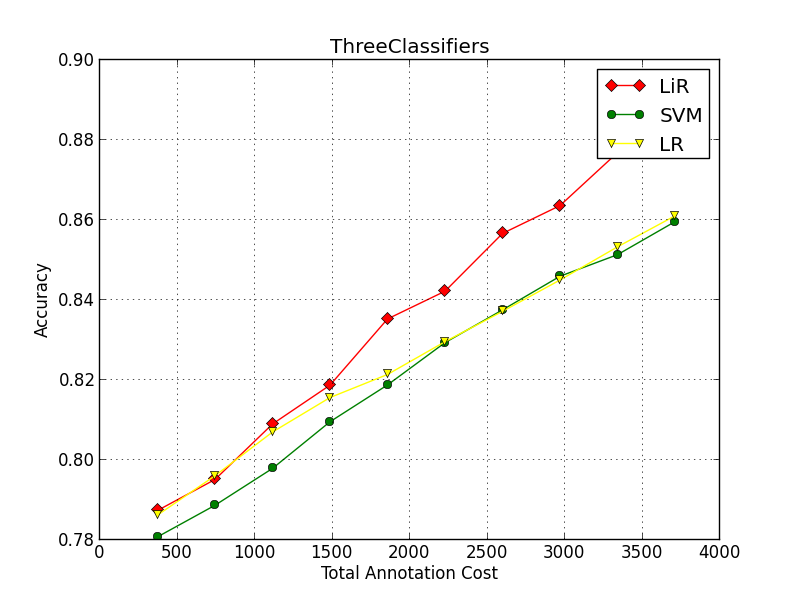
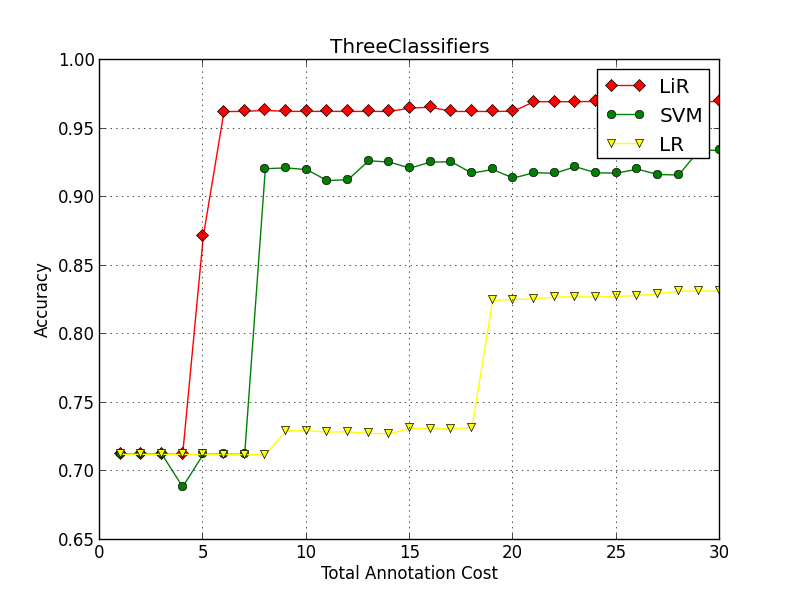
Fix bugs in Evaluator...

diff --git a/src/edu/cmu/al/experiment/Evaluator.java b/src/edu/cmu/al/experiment/Evaluator.java
@@ -20,8 +20,9 @@ public class Evaluator implements EvaluatorInterface {
     getTrueNeg();
     getFalsePos();
     getFalseNeg();
-    // System.out.println(TRUE_POS + "\t" + TRUE_NEG + "\t" + FALSE_POS + "\t" + FALSE_NEG);
-
+    
+    System.out.println(TRUE_POS + "\t" + TRUE_NEG + "\t" + FALSE_POS + "\t" + FALSE_NEG + "\t"
+            + (TRUE_POS + TRUE_NEG + FALSE_POS + FALSE_NEG));
   }
 
   @Override
@@ -47,35 +48,50 @@ public class Evaluator implements EvaluatorInterface {
 
   public void getTruePos() {
 
-    String sql = "select count(*) from " + Configuration.getReviewTable() + " R,"
-            + Configuration.getPredictTable() + " P "
-            + "where R.product_id = P.product_id and P.predict_result = 1 and R.review_score >= "
-            + ScoreDefine.posSocre + " and P.islabeled = 0";
+    String sql = "select count(P.product_id) from "
+            + Configuration.getFeatureTable()
+            + " F,"
+            + Configuration.getPredictTable()
+            + " P where F.product_id = P.product_id and P.islabeled = 0 and P.predict_result = 1 and F.f2 >= 3";
+
     TRUE_POS = SqlManipulation.queryInt(sql);
+    // System.out.println(sql);
   }
 
   public void getTrueNeg() {
-    String sql = "select count(*) from " + Configuration.getReviewTable() + " R,"
-            + Configuration.getPredictTable() + " P "
-            + "where R.product_id = P.product_id and P.predict_result = 0 and R.review_score < "
-            + ScoreDefine.posSocre + " and P.islabeled = 0";
+
+    String sql = "select count(P.product_id) from "
+            + Configuration.getFeatureTable()
+            + " F,"
+            + Configuration.getPredictTable()
+            + " P where F.product_id = P.product_id and P.islabeled = 0 and P.predict_result = 0 and F.f2 < 3";
+
     TRUE_NEG = SqlManipulation.queryInt(sql);
+    // System.out.println(sql);
   }
 
   public void getFalsePos() {
-    String sql = "select count(*) from " + Configuration.getReviewTable() + " R,"
-            + Configuration.getPredictTable() + " P "
-            + "where R.product_id = P.product_id and P.predict_result = 1 and R.review_score < "
-            + ScoreDefine.posSocre + " and P.islabeled = 0";
+
+    String sql = "select count(P.product_id) from "
+            + Configuration.getFeatureTable()
+            + " F,"
+            + Configuration.getPredictTable()
+            + " P where F.product_id = P.product_id and P.islabeled = 0 and P.predict_result = 1 and F.f2 < 3";
+
     FALSE_POS = SqlManipulation.queryInt(sql);
+    // System.out.println(sql);
   }
 
   public void getFalseNeg() {
-    String sql = "select count(*) from " + Configuration.getReviewTable() + " R,"
-            + Configuration.getPredictTable() + " P "
-            + "where R.product_id = P.product_id and P.predict_result = 0 and R.review_score >= "
-            + ScoreDefine.posSocre + " and P.islabeled = 0";
+
+    String sql = "select count(P.product_id) from "
+            + Configuration.getFeatureTable()
+            + " F,"
+            + Configuration.getPredictTable()
+            + " P where F.product_id = P.product_id and P.islabeled = 0 and P.predict_result = 0 and F.f2 >= 3";
+
     FALSE_NEG = SqlManipulation.queryInt(sql);
+    // System.out.println(sql);
   }
 
   public void clear() {

diff --git a/src/edu/cmu/al/main/Main.java b/src/edu/cmu/al/main/Main.java
@@ -42,11 +42,11 @@ public class Main {
     int numberOfInstanceToLabel = (int) Math.floor((labeling.getAllNumber() / round) * ratio);
 
     Experiment experiment = new TableExperiment();
-    experiment.doExperiment(round, numberOfInstanceToLabel, sampling, classifier1, labeling, "regression.txt");
-    experiment.doExperiment(round, numberOfInstanceToLabel, sampling, classifier2, labeling, "svm.txt");
-    experiment.doExperiment(round, numberOfInstanceToLabel, sampling, classifier3, labeling, "logistic.txt");
+    experiment.doExperiment(30, 5, sampling, classifier1, labeling, "regression.txt");
+    experiment.doExperiment(30, 5, sampling, classifier2, labeling, "svm.txt");
+    experiment.doExperiment(30, 5, sampling, classifier3, labeling, "logistic.txt");
 
-    experiment.plotResult("ThreeClassifiersUpdate", "ThreeClassifiers", 
+    experiment.plotResult("ThreeClassifiers", "ThreeClassifiers", 
             "regression.txt", "LiR", "svm.txt", "SVM", "logistic.txt", "LR");
 
     // experiment.doExperiment("Round_10_Rate_0.5");
